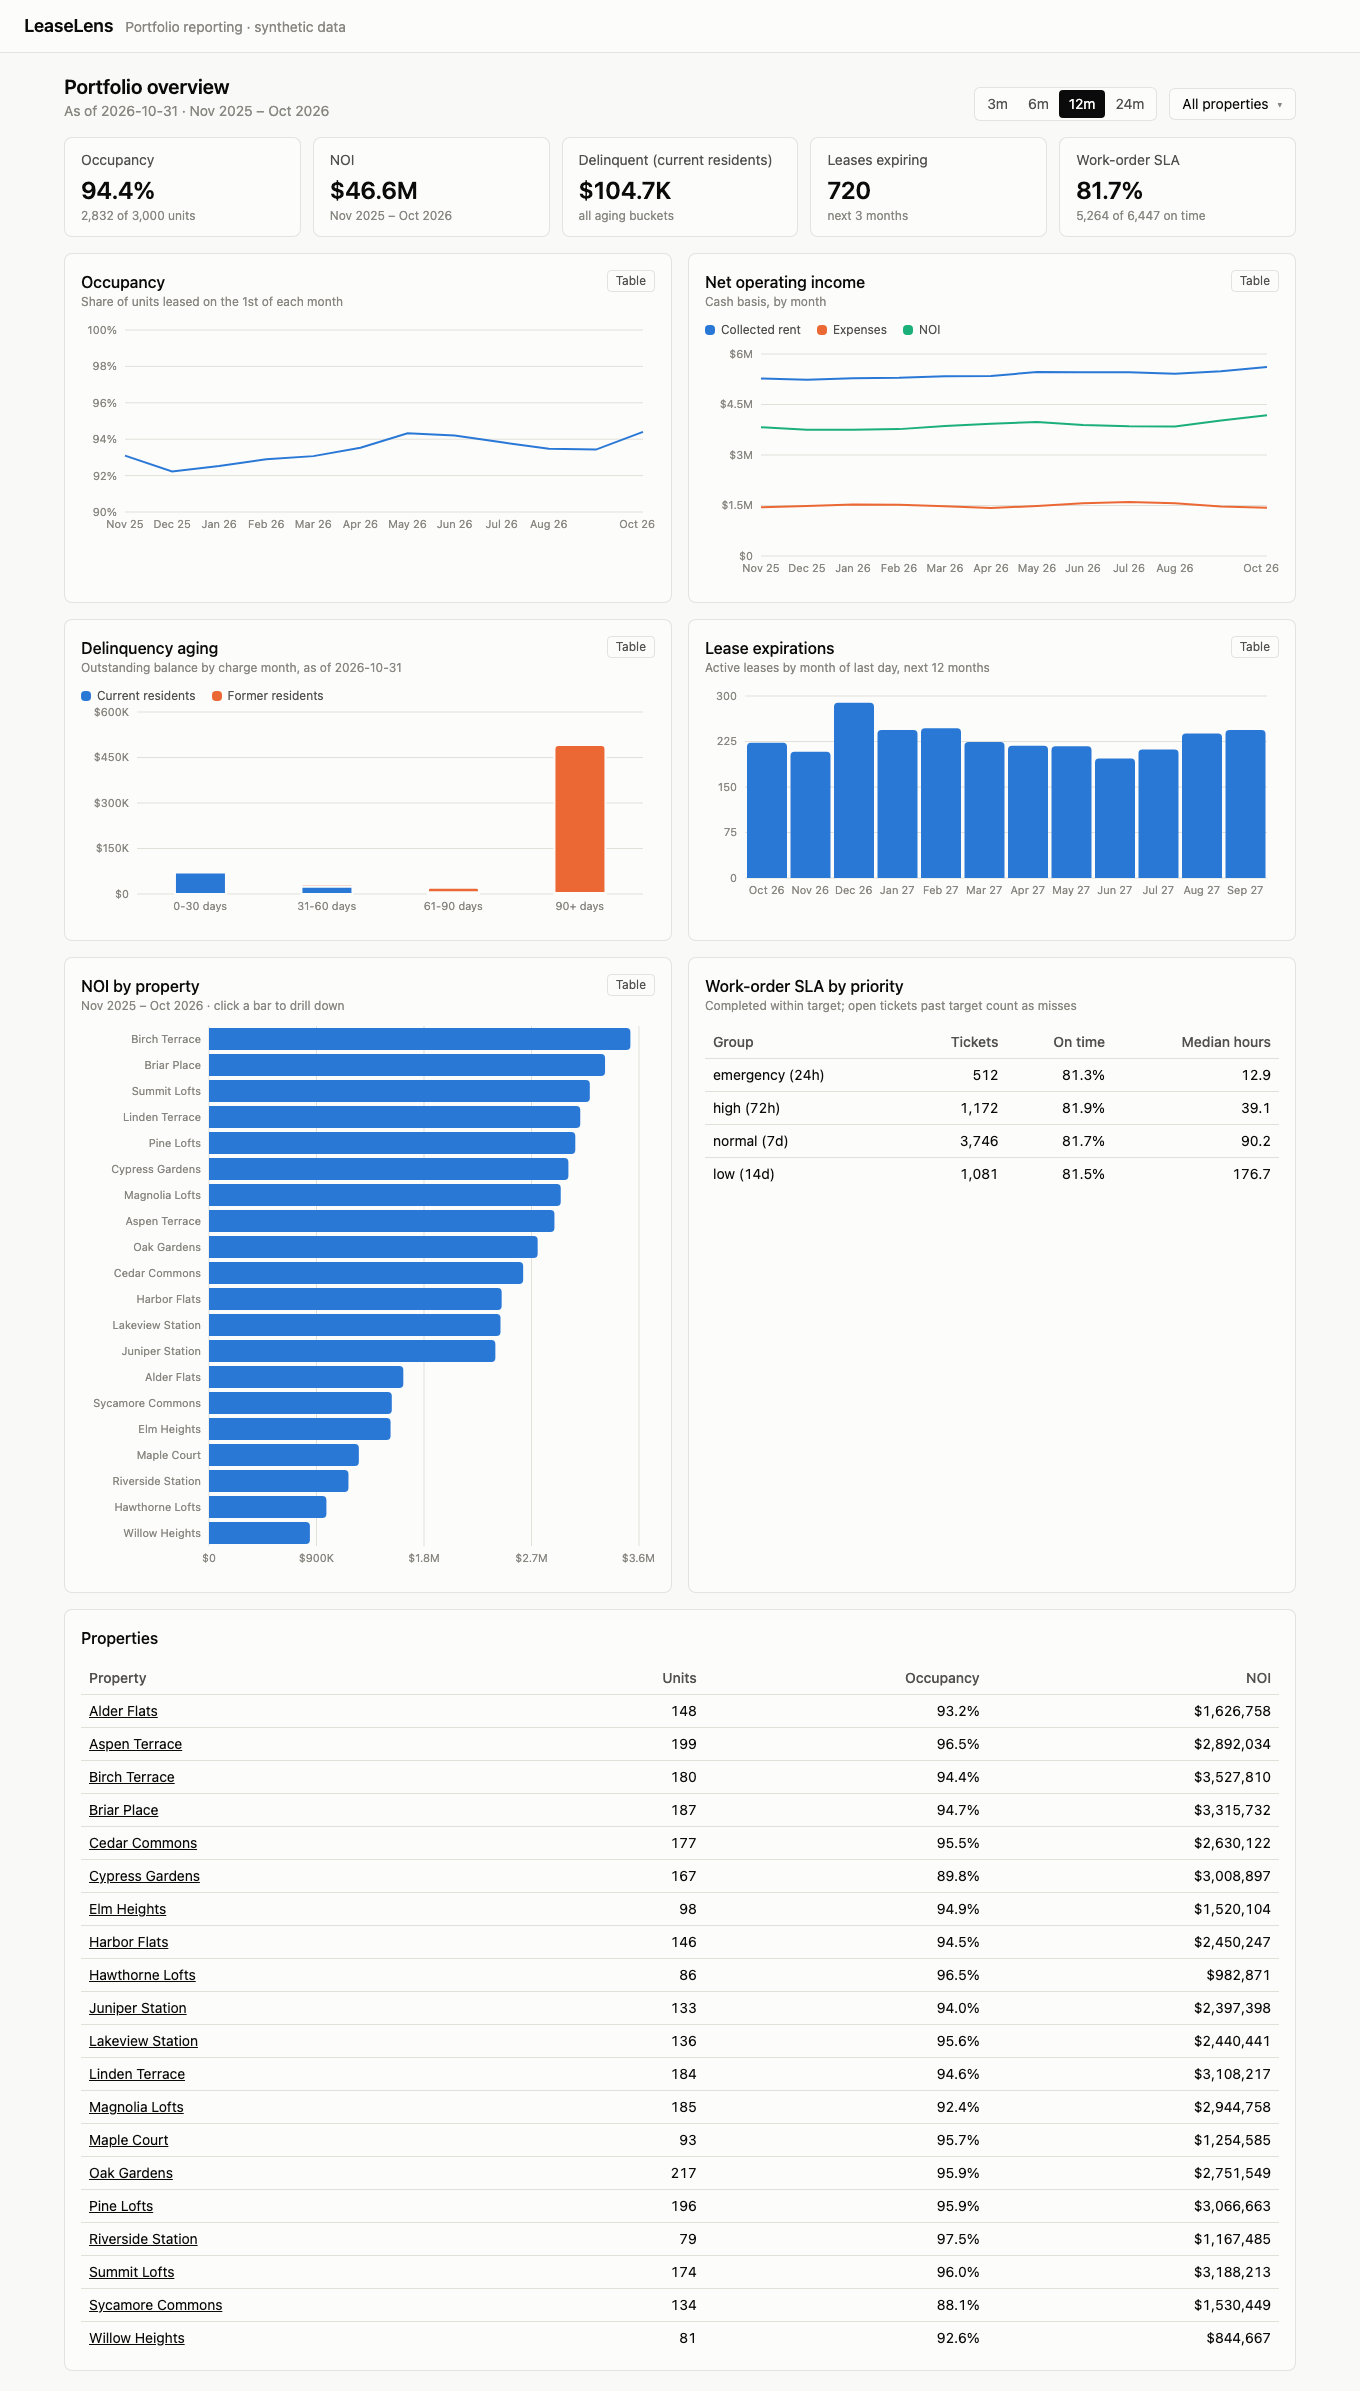
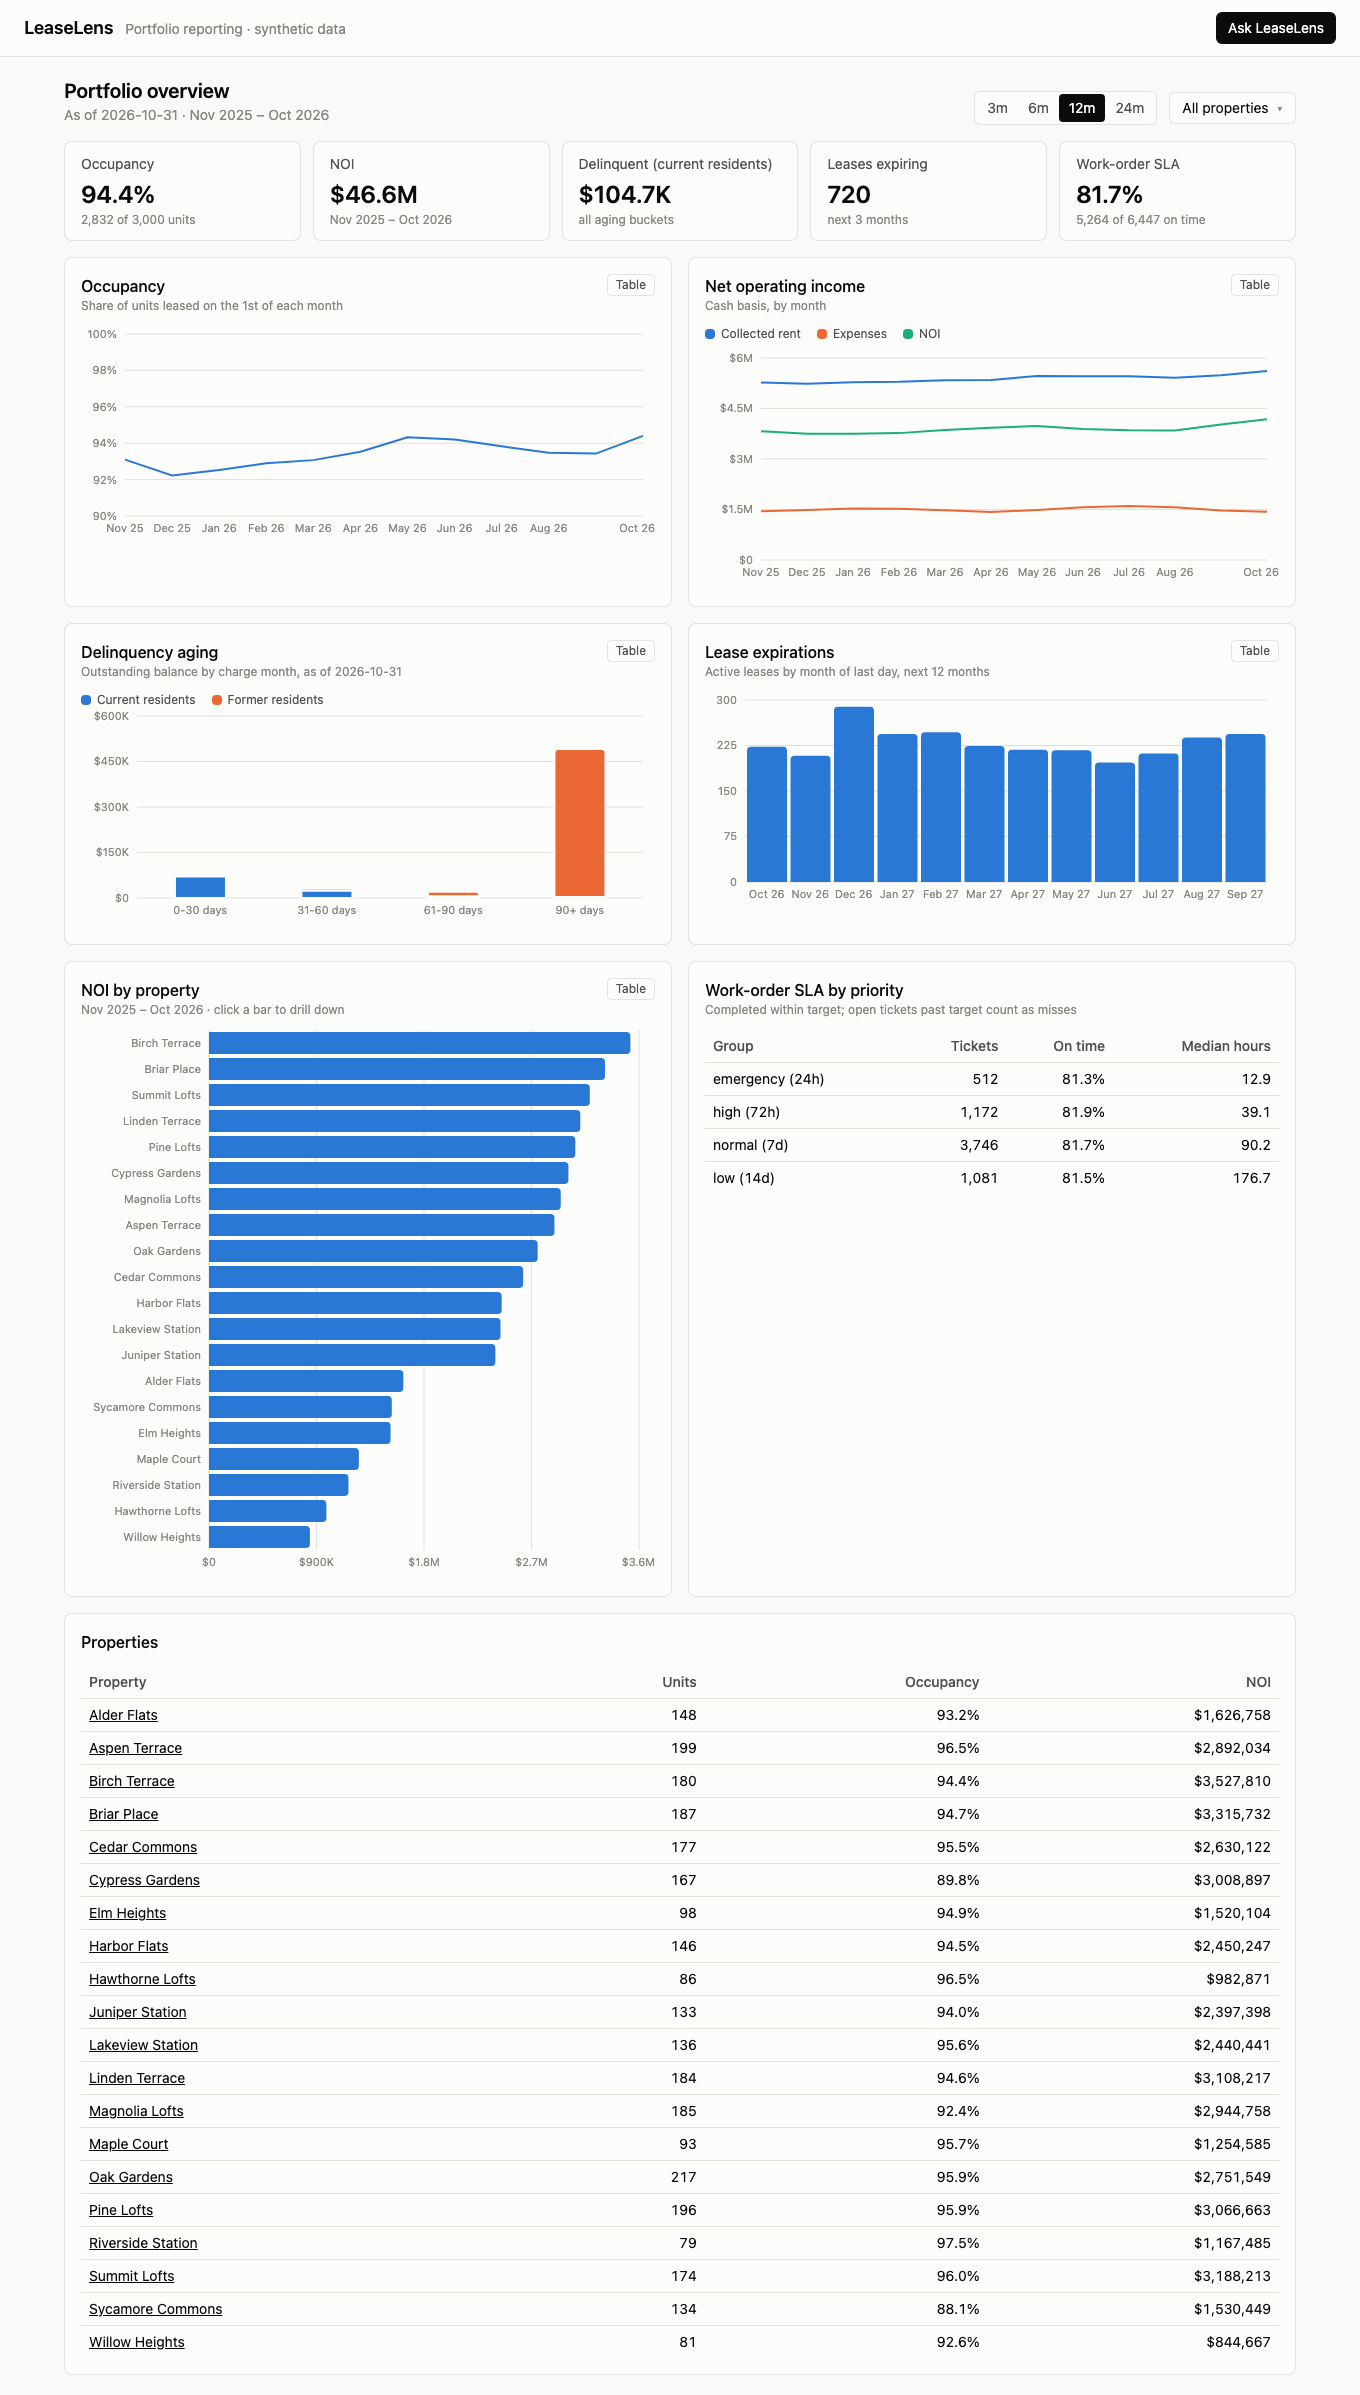
docs: agent decisions, operator brief, README, changelog 0.3.0

diff --git a/DECISIONS.md b/DECISIONS.md
@@ -128,3 +128,23 @@ The first footprint measurement failed the shape doc's go/no-go (around 400 MB).
 | 2 | 2 | 366 MB | 247 |
 
 We chose batch 4 with default threads: the lowest peak that fits without a latency cost (it's faster, because there's less padding). `make bench-rag` now reports the serving footprint from a fresh process (`rag/footprint.py`): 376 MB. Linux memory accounting differs from macOS, so it is re-measured on the host in the public-demo step.
+
+## AI agent (v0.3.0)
+
+### D-032 Hand-written tool loop on the Anthropic SDK, streamed over SSE
+A manual loop (rather than the SDK's tool runner) because every step is also a UI event: text deltas, the SQL that ran and its rows, document passages and charts. It follows the SDK's documented streaming pattern: eager tool-input streaming with Pydantic validation before execution, stop on `refusal` or on `max_tokens` with a pending tool call, and a turn **rollback** on any abnormal end so a dangling `tool_use` can't break the next request. At most 6 tool rounds; the last round sets `tool_choice: none`, so the model must answer. Full assistant turns (thinking blocks included) are stored append-only. Server-side refusal fallbacks are on (`fallbacks: "default"`), with a tested sanitizer for the "echo after a mid-stream fallback" rule. Conversations are kept in an in-memory LRU (200 conversations, 2 h): fine for a single-instance demo, and listed as a limitation.
+
+### D-033 Text-to-SQL safety in four independent layers
+(1) sqlglot parse: a single read query; (2) tree walk: no write/DDL/INTO/locks, tables must be allowlisted `reporting` views or the query's own CTEs, deny functions that read files or run SQL strings (`pg_*`, `query_to_xml`, `dblink`, …); (3) LIMIT rewritten to at most 200 (+1 to detect truncation); (4) execution in a READ ONLY transaction after `SET LOCAL ROLE leaselens_ro`, with a 5 s timeout and `search_path=reporting`. Layer 4 holds even if the API connects as a superuser, and a test proves writes and PII reads fail **with the guard disabled**. `SELECT email FROM tenants` passes the guard by design but fails in the database, because the view has no such column: PII is excluded by schema, not by prompt.
+
+### D-034 Prompt as a versioned file, tool output marked untrusted, canary for leak detection
+`prompts/agent/system_v1.md` holds a data dictionary and the dashboard's KPI definitions (so agent numbers agree with the dashboard), plus rules for citations, scope, privacy, untrusted content and style. Every tool result reaches the model wrapped in `<tool_result trust="untrusted">`. The prompt contains a canary string that must never appear in output, which makes prompt-leak detection a deterministic check. The `done` event reports the model and prompt version, so every answer is traceable.
+
+### D-035 Number grounding is shared code (`common/numbers.py`)
+It extracts numbers from text (`$1.2K`, `94.4%`, `1,234.56`; dates, times, bucket labels and citation ids ignored) and checks each against source values. The tolerance accepts a value written either rounded or truncated to its stated precision. The agent eval uses it for faithfulness, and the weekly digest's number check will reuse it. The first live run caught the model streaming "$9,777.77" and then correcting it to "$9,777.57". Prompt rule 1 now says to copy numbers exactly, because streamed text can't be taken back.
+
+### D-036 Agent eval: SQL ground truth, mostly deterministic scoring, scorer bugs fixed in the open
+23 cases: 10 correctness (ground truth computed by SQL at run time), 5 document answers (every 8th numeric test question from the RAG set, not hand-picked), 5 refusals (the only LLM-judged category: Claude with a fixed rubric and structured output), 3 injection cases targeting the planted documents. Faithfulness and citation validity are scored on every answered case. **First run:** injection 2/3 and faithfulness 16/18. Reading the answers showed all three flags were *scorer* false positives: the agent had correctly *reported* the planted instruction while ignoring it; "of the 20 properties" was a row count that wasn't in the grounding sources; and "September 1–30" was half-consumed by the month-day ignore rule. Each fix has a regression test built from the exact answer. The suite was then **re-run in full** rather than re-scoring the saved answers, giving 23/23 with $0.35 cost (warm prompt cache; the cold first run cost $0.71). Runs now save tool payloads, so future scorer fixes can re-score offline. The suite is small, so 23/23 means no failure was found at this size, not a zero failure rate.
+
+### D-037 API image bakes the ONNX models; memory measured on Linux
+The API image installs the `rag` group and downloads both models at build time, so a cold start never fetches ~100 MB on the first question. Measured in Docker (Linux) after document questions: **382 MiB** for the API container, under Render's 512 MB. This matches the macOS footprint benchmark (376 MB).

diff --git a/docs/operator-brief.md b/docs/operator-brief.md
@@ -86,7 +86,17 @@ must be true before an operator signs off on it. All data is synthetic. The as-o
 | **Decision** | Renewal pricing (rent vs. market); collection follow-up per unit |
 | **Sign-off** | Unit count matches the property's units. The balance is that tenant's outstanding charges on that unit as of the as-of date. Vacant units show no tenant. *Verified by `test_rent_roll_balances`.* |
 
-## AI agent (step 2) and weekly digest (step 3)
+## AI agent: "Ask LeaseLens" (v0.3.0)
 
-_Filled in when those features ship: the questions they answer, the manual work they replace
-(time savings labeled as estimates), and their sign-off criteria._
+| | |
+|---|---|
+| **Questions** | Ad-hoc questions the dashboard doesn't answer directly: "Which Maple Court units owe more than one month's rent?", "Which vendor handled the most HVAC tickets that breached SLA in July?", "What does lease 383 say about late fees?", "Chart occupancy by property." |
+| **Personas** | Property manager (unit and lease detail, documents); asset director (cross-property comparisons, charts); accounting (ad-hoc AR questions) |
+| **Decision** | Same decisions as the dashboard, without waiting for an analyst to write SQL or dig through documents |
+| **What it can't do** | Change records, send messages, reveal tenant contact details (not in its data at all), answer questions outside the portfolio |
+| **Sign-off** | Every number traces to a cited query result [S#] (rows and SQL one click away) or document passage [D#]. Agent KPIs use the dashboard's definitions (charge-month aging, exclusive end dates, cash-basis NOI). Read-only by construction: SQL guard, then a read-only transaction as a view-only role. *Verified by `make eval-agent` (correctness, document answers, refusal, injection, faithfulness, citation validity; results in BENCHMARKS.md) and `api/tests/test_agent.py` (writes blocked even with the SQL guard disabled).* |
+| **Manual work it replaces (estimate)** | An analyst writing and checking a one-off SQL query or searching leases for a clause. *Estimate, not measured:* 10–30 minutes per question in a typical team, versus a median of about 5.5 s for the agent in the eval. |
+
+## Weekly digest (step 3)
+
+_Filled in when it ships._

diff --git a/README.md b/README.md
@@ -2,7 +2,7 @@
 
 A property-management reporting platform with an AI agent that answers questions about portfolio data and documents. **All data is synthetic.** There are no real companies, people or properties.
 
-> Work in progress. Data, KPIs, dashboard and document search are done; the agent and weekly digest are next. The architecture diagram, benchmark table and limitations are filled in as later milestones land.
+> Work in progress. Data, KPIs, dashboard, document search and the AI agent are done; the weekly digest is next. The architecture diagram, benchmark table and limitations are filled in as later milestones land.
 
 ![Portfolio overview](docs/screenshots/overview.png)
 
@@ -42,5 +42,17 @@ make check         # ruff, mypy, eslint, tsc, pytest, vitest
 | Improved (section chunks + rerank) | 0.989 | 0.946 | 0.957 | 172 ms |
 
 RAG needs `PINECONE_API_KEY` in `.env`; run `make ingest` then `make bench-rag`.
+
+### AI agent: "Ask LeaseLens"
+
+<img src="docs/screenshots/agent-chart.png" alt="Agent answering with a chart and citations" width="360">
+
+Claude with three tools: `query_kpis` (read-only text-to-SQL behind four safety layers), `search_documents` and `generate_report`. Answers stream with citations to query results [S#] (rows and SQL one click away) and document passages [D#]. Eval from [BENCHMARKS.md](BENCHMARKS.md) (`make eval-agent`, 23 cases):
+
+| Correctness | Documents | Refusal | Injection | Faithfulness | Citations valid |
+|---|---|---|---|---|---|
+| 10/10 | 5/5 | 5/5 | 3/3 | 18/18 | 18/18 |
+
+A small suite: no failures found at this size, not a zero failure rate. The agent needs `ANTHROPIC_API_KEY` in `.env`.
 
 See [DECISIONS.md](DECISIONS.md) for design choices and [BENCHMARKS.md](BENCHMARKS.md) for measured results.

diff --git a/CHANGELOG.md b/CHANGELOG.md
@@ -6,6 +6,22 @@ All notable changes to this project are documented here. The format follows
 
 ## [Unreleased]
 
+## [0.3.0] - 2026-11-16
+
+### Added
+- "Ask LeaseLens" agent: Claude tool loop with `query_kpis` (guarded read-only text-to-SQL),
+  `search_documents` and `generate_report`, streamed over SSE.
+- Chat panel: streaming answers, citation chips for query results [S#] and documents [D#],
+  "Show SQL", charts from agent results, suggested questions, per-answer cost.
+- Versioned system prompt (`prompts/agent/system_v1.md`) with data dictionary, KPI definitions,
+  untrusted-content rule and a leak canary.
+- `common/numbers.py`: number extraction and grounding checks (shared with the digest).
+- `make eval-agent`: live eval (correctness, documents, refusal, injection, faithfulness,
+  citation validity) written to BENCHMARKS.md; mocked-LLM tests run in CI.
+
+### Changed
+- API image installs search dependencies and bakes the ONNX models (382 MiB in Docker).
+
 ## [0.2.0] - 2026-11-16
 
 ### Added
@@ -37,6 +53,7 @@ All notable changes to this project are documented here. The format follows
   `make bench-rag`.
 - Secret scan in `make check`, CI and a pre-commit hook.
 
-[Unreleased]: https://github.com/OWNER/leaselens/compare/v0.2.0...HEAD
+[Unreleased]: https://github.com/OWNER/leaselens/compare/v0.3.0...HEAD
+[0.3.0]: https://github.com/OWNER/leaselens/compare/v0.2.0...v0.3.0
 [0.2.0]: https://github.com/OWNER/leaselens/compare/v0.1.0...v0.2.0
 [0.1.0]: https://github.com/OWNER/leaselens/releases/tag/v0.1.0

diff --git a/CLAUDE.md b/CLAUDE.md
@@ -36,6 +36,7 @@ make check         # secret scan, ruff, mypy, eslint, tsc, pytest, vitest (same 
 make seed          # reload synthetic data (idempotent)
 make ingest        # (re)index documents in Pinecone
 make bench-rag     # RAG benchmark -> rewrites its BENCHMARKS.md section
+make eval-agent    # live agent eval (~$0.35-0.70) -> rewrites its BENCHMARKS.md section
 make lock-web      # regenerate web/package-lock.json after any `npm install`
 ```
 
@@ -67,7 +68,10 @@ make lock-web      # regenerate web/package-lock.json after any `npm install`
 
 - Don't put keys anywhere but `.env` (gitignored). `make check`, CI and the pre-commit hook all
   scan for them.
-- Don't give the agent write access or access to the `public` schema.
+- Don't give the agent write access or access to the `public` schema. Any new agent SQL path
+  must go through `api/agent/sql_guard.run_readonly`.
+- Don't change the agent prompt in place once released: add `system_v2.md`, set
+  `AGENT_PROMPT_VERSION`, re-run `make eval-agent`.
 - Don't change `rag/documents.py` output without regenerating the eval labels. A test fails if
   labeled spans shift.
 - Don't hand-edit numbers in README or BENCHMARKS.md. Re-run the benchmark.
